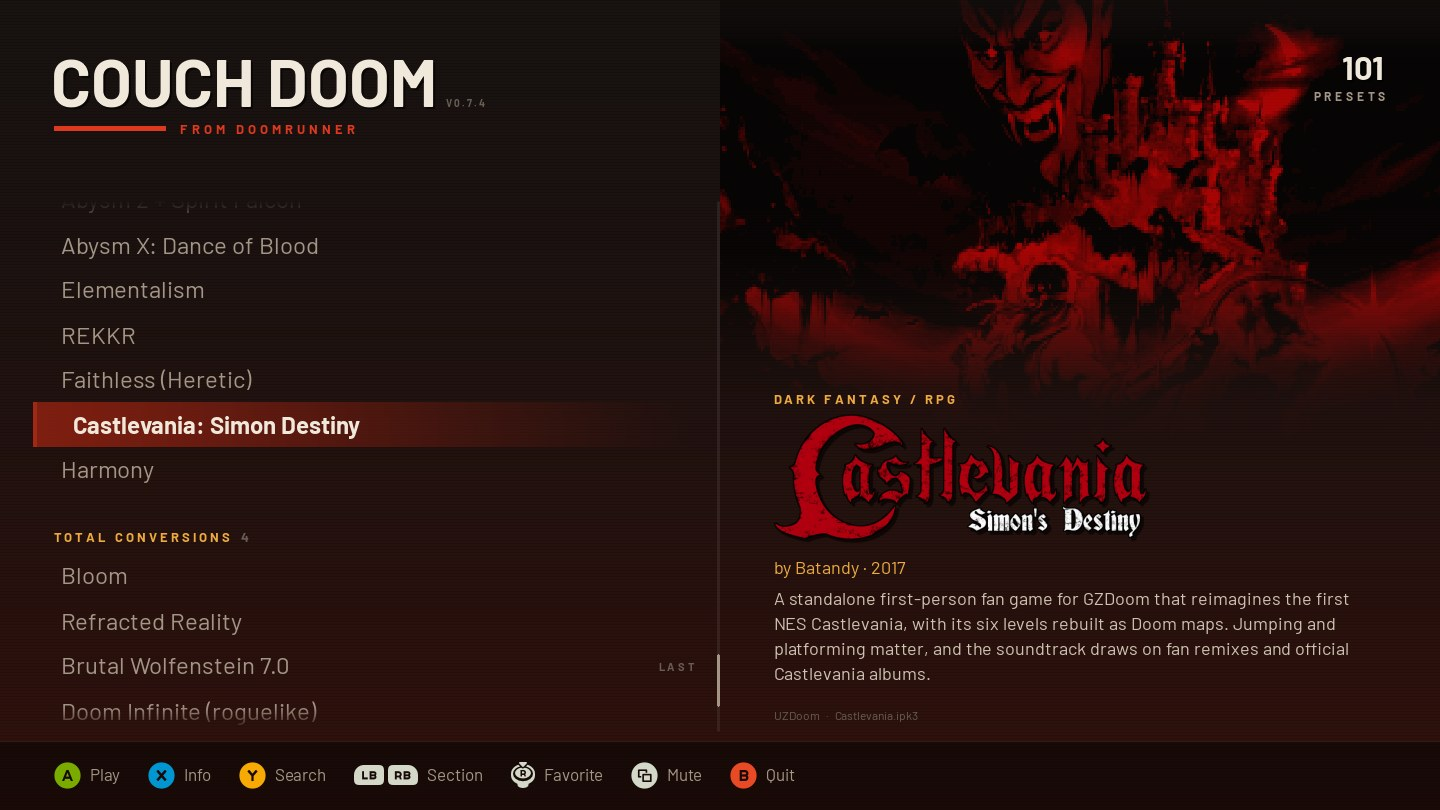
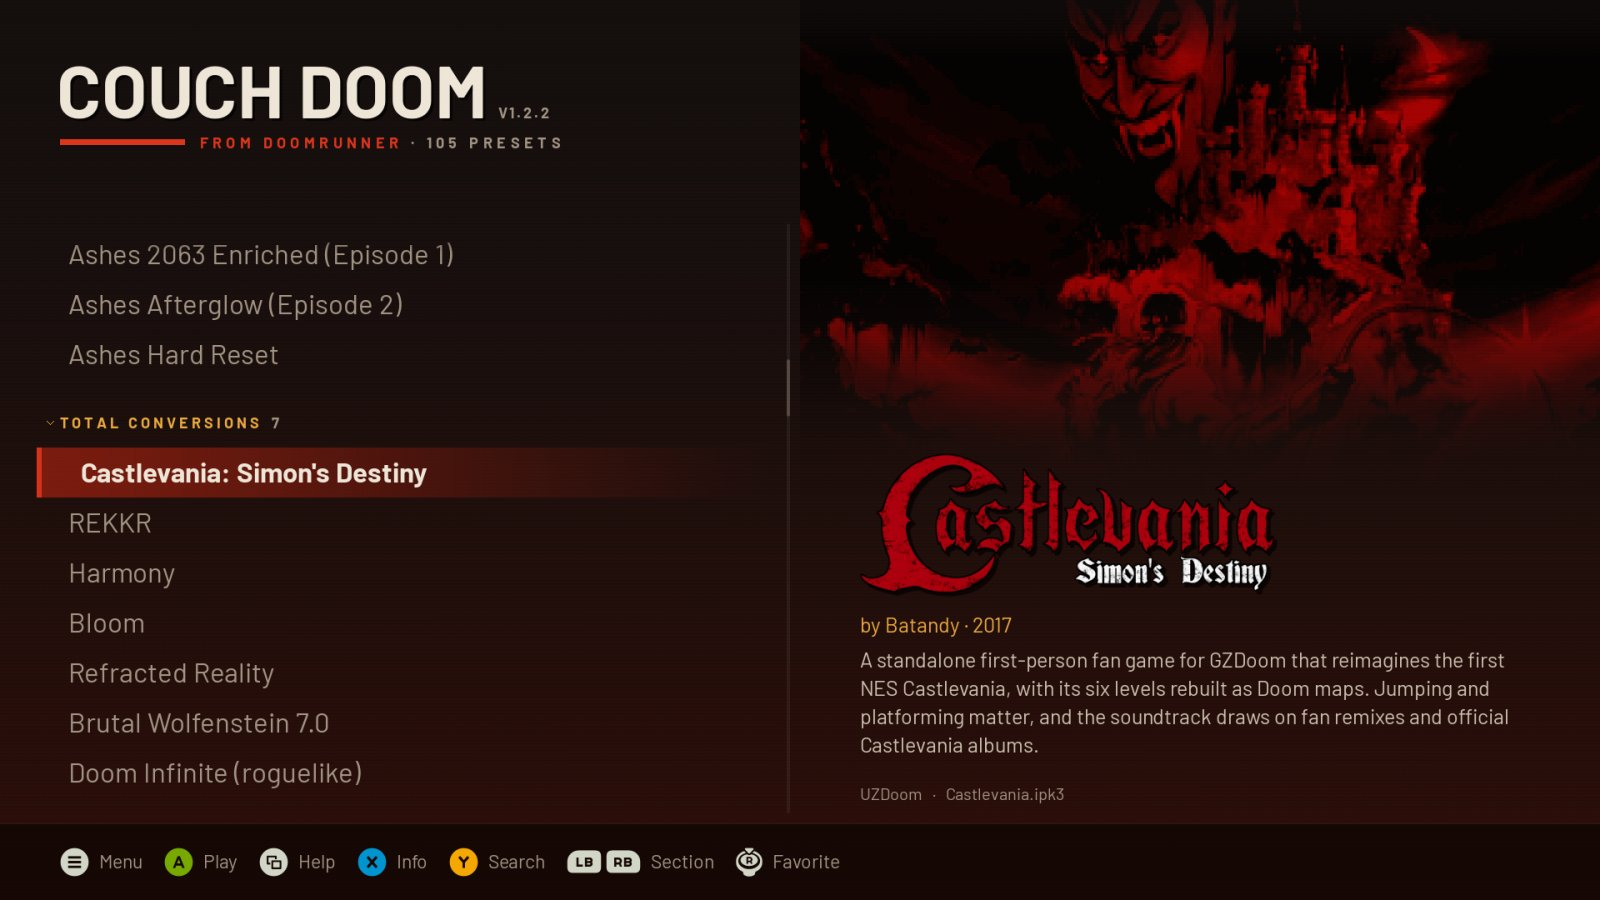
docs(readme): retake screenshots for 1.2.2 and show the menu, search, categories, loading screen and info sheet
The old shots were from v0.7.4. Same games and colours for the retakes; the new ones use themes the gallery didn't have yet (blue, sky, teal, sunset). Also fix the file browser's renamed Parent folder and Drives & home rows.

diff --git a/README.md b/README.md
@@ -14,11 +14,15 @@ Use it from the couch, at your desk or on a Steam Deck. CouchDoom reads your lau
 </p>
 <p>
   <img src="docs/screenshots/castlevania.jpg" width="49%" alt="Castlevania: Simon's Destiny with its own title art">
-  <img src="docs/screenshots/elementalism.jpg" width="49%" alt="Elementalism with its loading screen and logo">
+  <img src="docs/screenshots/elementalism.jpg" width="49%" alt="Elementalism with its art and logo">
 </p>
 <p>
   <img src="docs/screenshots/legacy-of-rust.jpg" width="49%" alt="Legacy of Rust with several files loaded">
   <img src="docs/screenshots/doom-2.jpg" width="49%" alt="Doom II with its title screen and description">
+</p>
+<p>
+  <img src="docs/screenshots/loading.jpg" width="49%" alt="Harmony's loading screen, its title art filling the window">
+  <img src="docs/screenshots/category.jpg" width="49%" alt="The Modern megawads category selected, listing the 20 games in it">
 </p>
 
 ## What it works with
@@ -37,7 +41,7 @@ If you use a launcher, CouchDoom uses its engine choices and settings. Without o
 
 CouchDoom checks common install locations and follows Windows shortcuts, including portable installs. If it finds one setup, it opens it. If it finds several, choose one; CouchDoom remembers your choice. Switch later from the menu.
 
-If nothing is found, choose **Find it myself…** and browse with a controller: D-pad or stick to move, **A** to open or choose, **B** to go up, and **X** to show all files. Select **../** to go up one folder; at a drive root, select **Drives & Home/** for the separate location list. On the keyboard, **Escape** closes the browser and Page Up/Down move by one visible page without wrapping. In an installed copy the browser starts in CouchDoom's own folder, so a launcher kept beside it is right there. You can also drag a file onto the window.
+If nothing is found, choose **Find it myself…** and browse with a controller: D-pad or stick to move, **A** to open or choose, **B** to go up, and **X** to show all files. Select **Parent folder** to go up one folder; at a drive root, select **Drives & home** for the separate location list. On the keyboard, **Escape** closes the browser and Page Up/Down move by one visible page without wrapping. In an installed copy the browser starts in CouchDoom's own folder, so a launcher kept beside it is right there. You can also drag a file onto the window.
 
 ![The launcher picker showing DoomRunner, ZDL, Doom Launcher and UZDoom](docs/screenshots/launcher-picker.jpg)
 
@@ -88,6 +92,11 @@ Escape or Start opens the menu. From there you can return to the list, refresh l
 
 Language follows the OS on first run when CouchDoom supports it (English, Spanish, Brazilian Portuguese, French, German). Change it anytime from the menu. Colors can follow each game's art or lock one look for the whole app.
 
+<p>
+  <img src="docs/screenshots/menu.jpg" width="49%" alt="The menu open over Chex Quest 3">
+  <img src="docs/screenshots/search.jpg" width="49%" alt="Searching for doom 2 with the on-screen keyboard, matches listed beside it">
+</p>
+
 Fold a group heading when you want that section out of the way. Search still finds games inside collapsed groups. Favorites stay near the top.
 
 B closes an open panel and does nothing on the main selector. Mouse and keyboard prompts are available too. CouchDoom hides while a game runs and returns when it closes.
@@ -98,6 +107,11 @@ B closes an open panel and does nothing on the main selector. Mouse and keyboard
 - Mods without their own title art can use their loading screen instead.
 - Menu sounds come from a Doom-family IWAD when available, or from bundled Freedoom sounds when they aren't.
 - WAD, PK3 and IPK3 files are supported; PK7 isn't.
+
+<p>
+  <img src="docs/screenshots/readme.jpg" width="49%" alt="Ancient Aliens' readme in the info sheet">
+  <img src="docs/screenshots/endoom.jpg" width="49%" alt="Ancient Aliens' ENDOOM screen in the info sheet">
+</p>
 
 ## A few extras
 
